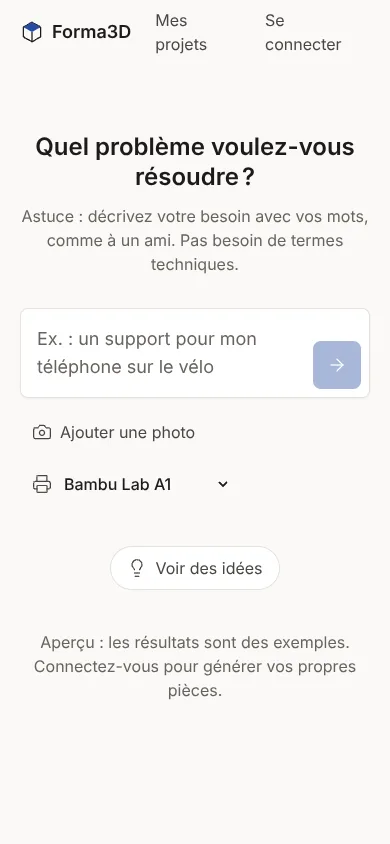
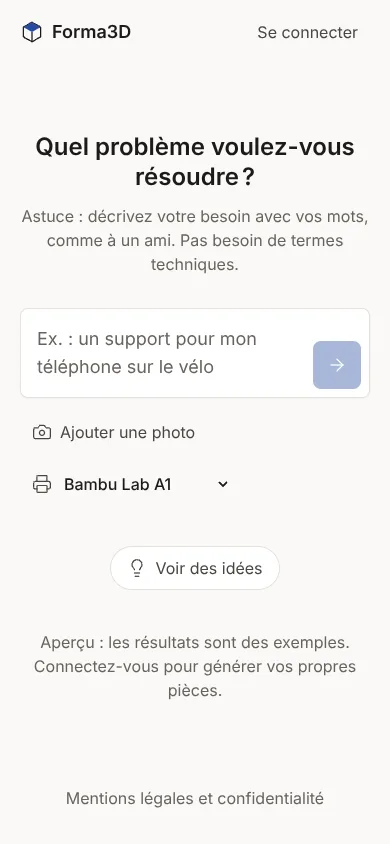
Refonte phases 3 et 4 : README, CHANGELOG, captures après mises à jour [skip e2e]
Claude-Session: https://claude.ai/code/session_018HWHvf6HnESRCoK33WvcKk

Changed region(s): [[0.1538, 0.9242, 0.8308, 0.955], [0.6462, 0.0, 0.9231, 0.0616], [0.4, 0.0, 0.5231, 0.0616]]

diff --git a/forma3d/README.md b/forma3d/README.md
@@ -27,7 +27,9 @@ matières conseillées), avec dimensions, matériaux, étapes de fabrication, co
 | Refonte 3 | Outils de création + génération Meshy (coûts affichés) | **fait** (voir « Refonte — phase 3 ») |
 | Refonte 4 | Finitions, écran de génération Meshy, PWA, tests Safari, performance de l'accueil | **fait** (voir « Refonte — phase 4 ») |
 | **Refonte v2 · 1** | Parcours Simple (accueil = l'outil), thème clair, mode avancé | **fait** (voir « Refonte v2 — phase 1 ») |
-| **Refonte v2 · 2** | Vérifications automatiques, paramètres nommés, pièces critiques, comparatif de modèles | **en cours** (voir « Refonte v2 — phase 2 ») |
+| **Refonte v2 · 2** | Vérifications automatiques, paramètres nommés, pièces critiques, comparatif de modèles | **fait, sauf le comparatif** (attend la clé) |
+| **Refonte v2 · 3** | Export 3MF, photo + cote, pièces normalisées, miniatures, remix | **fait** (voir « Refonte v2 — phases 3 et 4 ») |
+| **Refonte v2 · 4** | Pages légales, filtre de contenu, CSP, limites de débit, SEO, mises à jour de sécurité | **fait** (voir « Refonte v2 — phases 3 et 4 ») |
 
 Meshy est le service de génération 3D détaillée (voir « Refonte — phase 3 ») : il reste masqué tant que `MESHY_API_KEY`
 et la migration 7 ne sont pas en place, et chaque action affiche son coût en crédits avant confirmation.
@@ -515,6 +517,29 @@ projet ; les textes du parcours Simple sont en français (anglais et arabe : à 
 - **Comparatif de modèles** (`scripts/compare-models.ts`, job CI « comparatif-modeles » lancé à la main) : 10 demandes ×
   Opus / Sonnet / Haiku 5.5, plafond de 3 $. Il attend le secret GitHub `ANTHROPIC_API_KEY` ; aucun changement de modèle
   ou d'effort ne sera fait avant d'avoir montré les résultats.
+
+## Refonte v2 — phases 3 et 4
+
+**Phase 3**
+- **3MF** (`src/lib/three/export3mf.ts`, ZIP sans dépendance dans `src/lib/files/zip.ts`) : posé dans l'orientation qui
+  demande le moins de supports, centré sur le plateau de l'imprimante choisie, métadonnée « générée par IA ».
+  Le STL porte aussi la mention dans son en-tête.
+- **Photo + une cote** : aperçu de la photo et champ « une mesure visible sur la photo » sur l'accueil.
+- **Pièces normalisées** (`src/lib/design/standard-parts.ts`) : vis M2 à M8, inserts, écrous, aimants, roulements ;
+  cotes transmises à l'IA seulement quand la demande en cite, contrôle « Logements normalisés ».
+- **Miniatures** (`src/components/DesignThumbnail.tsx`) dans Mon espace, dessinées depuis le modèle (sans stockage).
+- **Remixer** : nouveau nom de « Utiliser comme point de départ » dans la galerie.
+- « Mon imprimante » est mémorisée sur l'appareil ; la garder dans le compte demanderait une migration (non faite).
+
+**Phase 4**
+- **Légal** : `/mentions-legales`, `/confidentialite`, `/cgu`, avec des champs **[À COMPLÉTER]** (identité de l'éditeur,
+  hébergeurs, durées, clause de responsabilité) : rien n'a été inventé. Pas de bandeau cookies : aucun cookie de suivi.
+- **Filtre de contenu** : armes, personnages, logos et marques protégés refusés avant génération.
+- **Sécurité** : en-tête Content-Security-Policy, contrôle d'origine durci (Sec-Fetch-Site), limites de débit en mémoire
+  sur génération, modification, import, enregistrement et suppression de compte (un compteur en base demanderait une migration).
+- **Dépendances** : zod 4.6.7 et postcss 8.5.33 → `npm audit` : 0 vulnérabilité. Next 16 n'est pas nécessaire pour cela
+  et n'a pas été installé.
+- **SEO** : `robots.txt` (Preview non indexées), `sitemap.xml`, image Open Graph, page 404.
 
 ## Mon espace et administration
 

diff --git a/forma3d/CHANGELOG.md b/forma3d/CHANGELOG.md
@@ -1,5 +1,21 @@
 # Journal des modifications
 
+## Refonte v2 — phases 3 et 4 (branche `claude/forma3d-refonte`, non fusionnée)
+
+### Ajouté
+- Export 3MF posé et centré sur le plateau ; mention « générée par IA » dans le 3MF et le STL.
+- Photo + une mesure de référence sur l'accueil ; bibliothèque de pièces normalisées ; miniatures dans Mon espace.
+- Pages légales (à compléter), badge « Générée par IA » et avertissement d'usage sur chaque pièce.
+- Filtre de contenu (armes, contenus protégés), CSP, limites de débit, robots.txt, sitemap.xml, Open Graph, page 404.
+
+### Modifié
+- « Utiliser comme point de départ » devient « Remixer cette pièce ».
+- Accueil : un seul lien de compte et un pied de page légal.
+- zod 3 → 4.6.7 (majeure) et postcss 8.5.33 : 0 vulnérabilité selon npm audit.
+
+### À faire de ton côté
+- Compléter les champs [À COMPLÉTER] des pages légales (et les faire relire).
+
 ## Refonte v2 — phase 2 : fiabilité (branche `claude/forma3d-refonte`, non fusionnée)
 
 ### Ajouté
